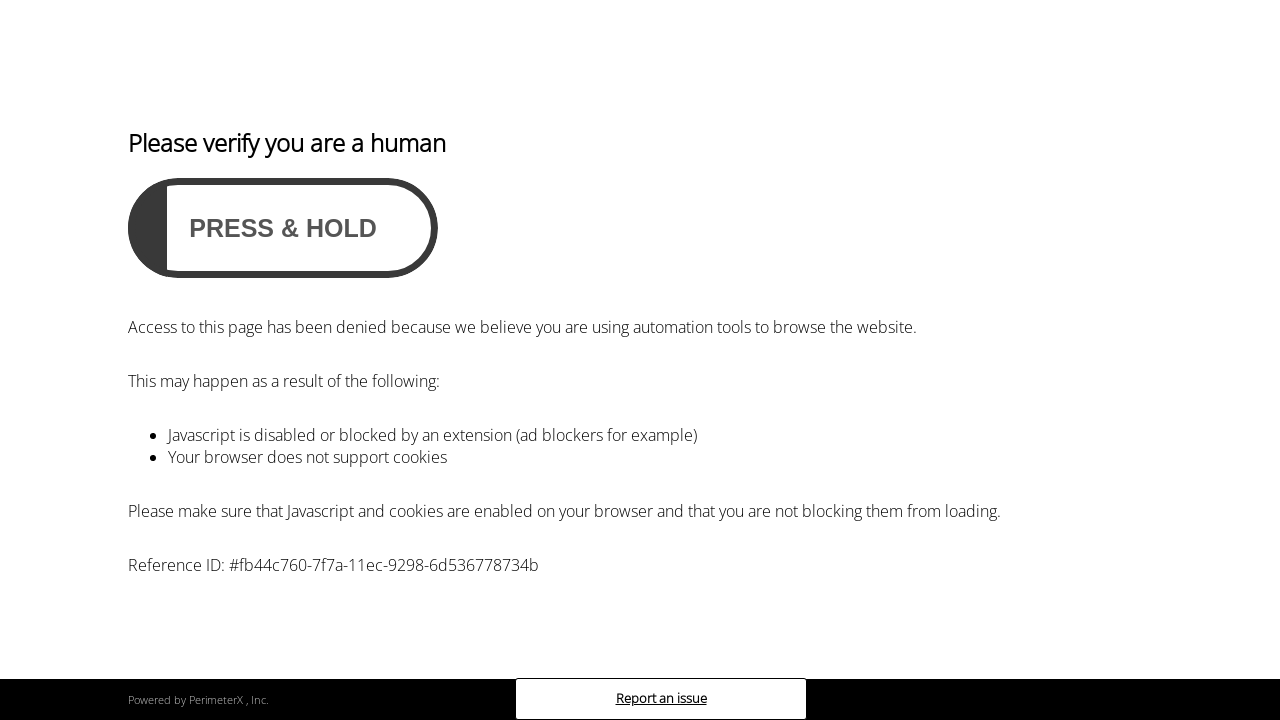
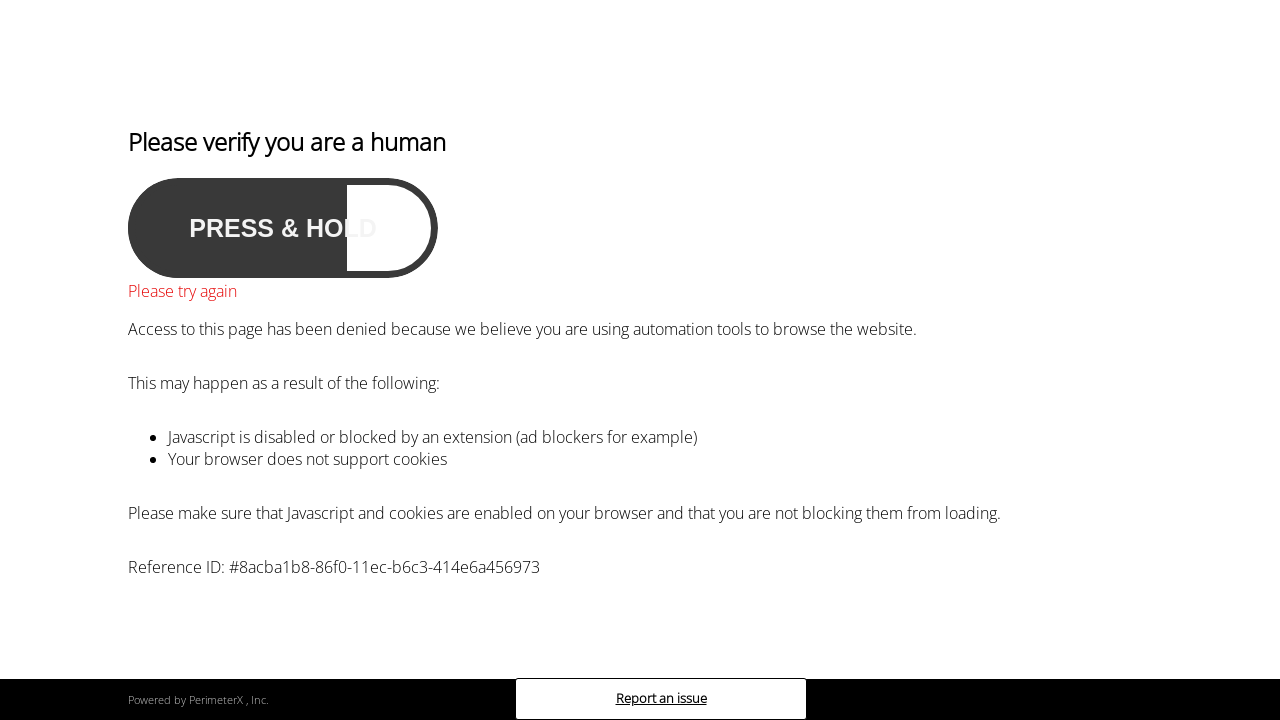
testes com o selenium

diff --git a/sources/resources/cubo.py b/sources/resources/cubo.py
@@ -1,80 +1,112 @@
 from time import sleep
-from unicodedata import name
 from flask import Blueprint
 from sources.utils.response import Response
 from sources.business.cubo import CuboBusiness
 import requests
-from bs4 import BeautifulSoup as bs
-# from selenium import webdriver
-# from selenium.webdriver.chrome.options import Options  
-# from selenium.webdriver.support.ui import Select
+from bs4 import BeautifulSoup   
+from selenium import webdriver
+from selenium.webdriver.chrome.options import Options  
+from selenium.webdriver.support.ui import Select
 import os
-from playwright.sync_api import sync_playwright
+
+
+chrome_options = webdriver.ChromeOptions()
+chrome_options.add_argument('--disable-extensions')
+chrome_options.add_argument('--profile-directory=Default')
+chrome_options.add_argument("--incognito")
+chrome_options.add_argument("--disable-plugins-discovery");
+chrome_options.add_argument("--start-maximized")
+chrome_options.add_argument('--disable-blink-features=AutomationControlled')
+# chrome_options.add_argument("--headless")
+simp_path = 'chromedriver'
+abs_path = os.path.abspath(simp_path)
+os.chmod(abs_path,755)
+driver = webdriver.Chrome(executable_path=abs_path,options=chrome_options)
+driver.delete_all_cookies()
+driver.set_window_size(800,800)
+driver.set_window_position(0,0)
+#Remove navigator.webdriver Flag using JavaScript
+driver.execute_script("Object.defineProperty(navigator, 'webdriver', {get: () => undefined})")
+print('arguments done')
+# driver.get('https://www.google.com')
+driver.get('https://www.crunchbase.com/organization/cortex-intelligence')
+sleep(5)
+page = driver.page_source
+
+soup = BeautifulSoup(page, 'html.parser')
+
+description = soup.find('span', attrs={'class':'description'}).next
+
 
 cubo_api = Blueprint('cubo', __name__)
 cubo_business = CuboBusiness()
 header = { "Authorization" : "Basic aXRicm9rZXI6cmVrb3JidGkz" }
 
-# chrome_options = Options()
-# chrome_options.add_argument("--headless") # faz com que o browser não abra durante o processo
-# simp_path = 'chromedriver'
-# abs_path = os.path.abspath(simp_path)
-# os.chmod(abs_path,755)
-# driver = webdriver.Chrome(executable_path=abs_path,options=chrome_options)
 
 @cubo_api.route('/getfullcnpj/<int:cnpj>', methods=['GET'], strict_slashes=False)
 def find_all(cnpj):
 
-    with sync_playwright() as p:
-        browser = p.chromium.launch()
-        page = browser.new_page()
-        page.goto("https://www.crunchbase.com/v4/data/autocompletes?query=cortex-intelligence&collection_ids=organizations&limit=25")
+    # with sync_playwright() as p:
+    #     browser = p.chromium.launch()
+    #     page = browser.new_page()
+    #     result = page.goto("https://www.crunchbase.com/v4/data/autocompletes?query=cortex-intelligence&collection_ids=organizations&limit=25")
 
-        verificacao = page.query_selector('.page-title').inner_text()        
+    #     # result = page.evaluate()  # page.query_selector('.page-title').inner_text()        
    
-        tentativas = 0;
+    #     verificacao = page.query_selector('.page-title').inner_text()
+
+    #     tentativas = 0;
         
-        while(verificacao == "Please verify you are a human"):
-            print("Resolvendo captcha tentativas ", tentativas);
-            sleep(5);
-            page.screenshot(path='ss.png');
-            page.mouse.move(0, 0);
-            page.mouse.move(150, 240);
-            page.mouse.down();
-            sleep(1);
-            page.screenshot(path='ss2.png');
-            page.mouse.up();
-            sleep(5);
-            page.screenshot(path='ss3.png');
-            verificacao = page.query_selector('.page-title').inner_text()        
+        # while(verificacao == "Please verify you are a human"):
+        #     print("Resolvendo captcha tentativas ", tentativas);
+        #     sleep(5);
+        #     page.screenshot(path='ss.png');
+        #     page.mouse.move(0, 0);
+        #     page.mouse.move(150, 240);
+        #     page.mouse.down();
+        #     sleep(7);
+        #     page.screenshot(path='ss2.png');
+        #     page.mouse.up();
+        #     sleep(10);
+        #     page.screenshot(path='ss3.png');
+        #     verificacao = page.query_selector('.page-title').inner_text()     
 
-            tentativas += 1
+        #     tentativas += 1
 
-            if tentativas > 2: 
-                page.close()
-                break
+        #     if tentativas > 2: 
+        #         page.close()
+        #         break
 
-        browser.close()
+    #     if tentativas <= 2:
+    #         result = page.content()
 
-    
-    return "" 
+    #     browser.close()
 
+    # return result
 
+    driver = webdriver.Chrome(executable_path=abs_path,options=chrome_options)
     # driver.get('https://www.crunchbase.com/v4/data/autocompletes?query=cortex-intelligence&collection_ids=organizations&limit=25')
 
-    # page = driver.page_source
+    # json_company = driver.page_source
+
+    driver.get('https://www.crunchbase.com/organization/cortex-intelligence')
+
+    driver.close()
+
 
     # result = requests.get(f'https://www.crunchbase.com/v4/data/autocompletes?query=cortex-intelligence&collection_ids=organizations&limit=25');
     
     # page = bs(result.text,"html.parser")
     # if page.title:
-    #     if page.title.string == ''
-
+    #     if page.title.string == '':
 
     # html = open('page.html', 'w')
     # html.write(page)
     # html.close()
     
+    return page
+
+
     # speedio = requests.get(f'http://api-es.speedio.com.br:5003/getfullcnpjdata?cnpj={cnpj}',headers=header).json()
     
     # if 'WEBSITE' in speedio:
